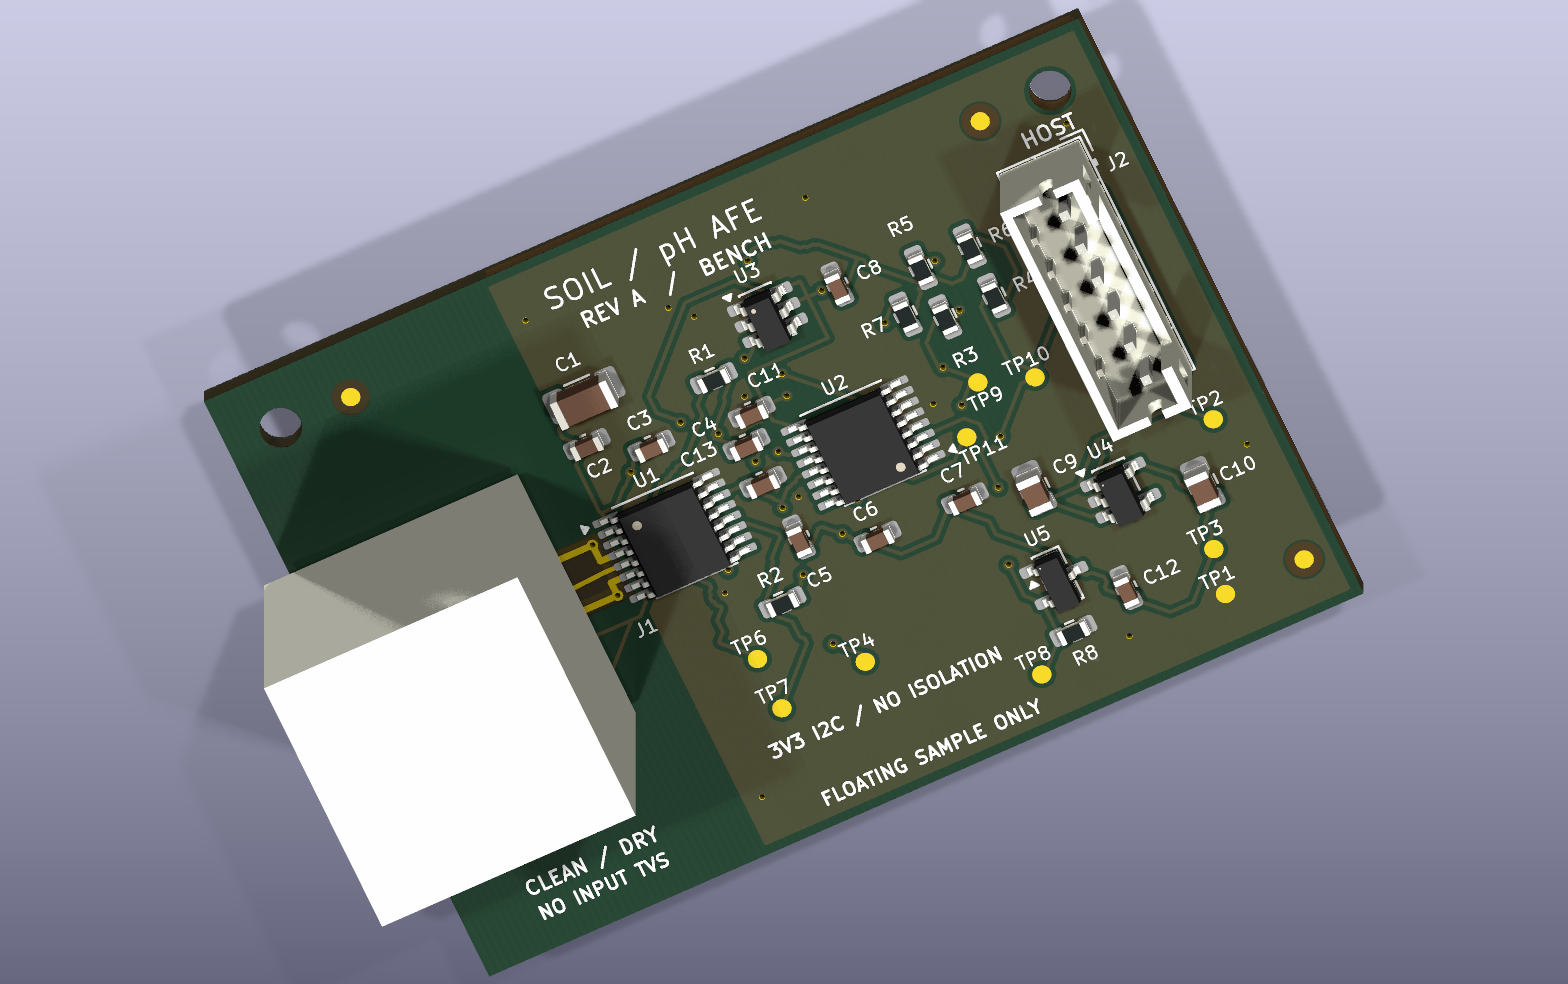
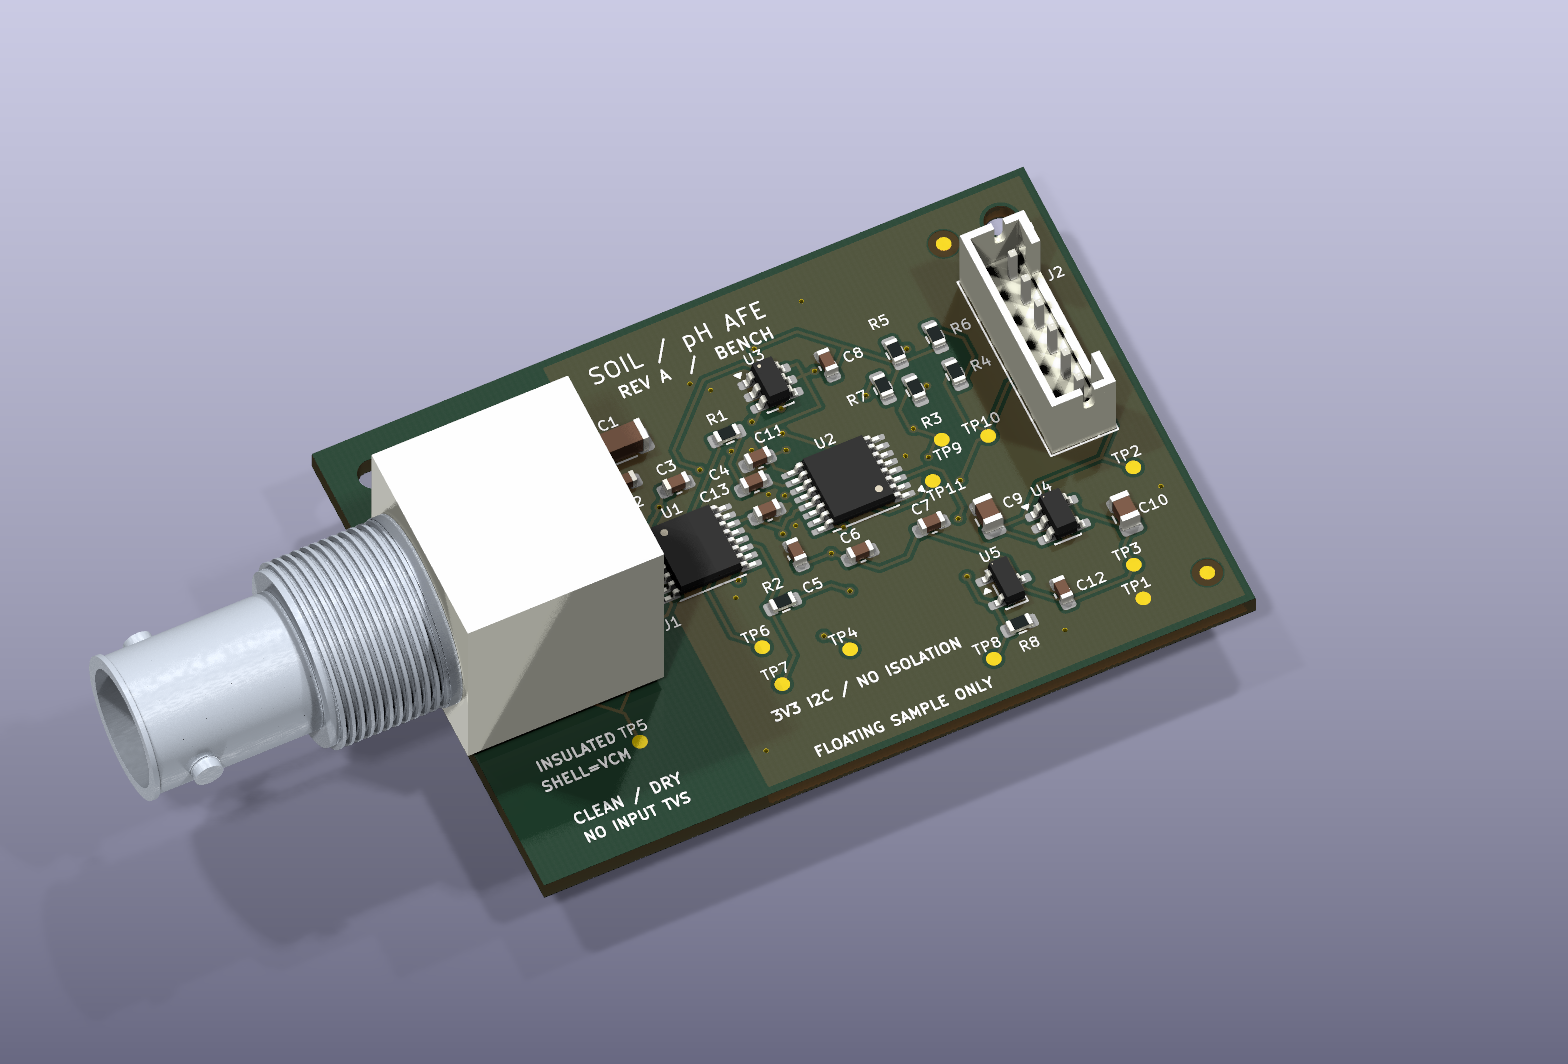
Refresh pH module renders and document routing cleanup

diff --git a/_projects/guarded-ph-acquisition-module.md b/_projects/guarded-ph-acquisition-module.md
@@ -8,7 +8,7 @@ excerpt: "A 50 × 35 mm guarded pH analog front end with a 16-bit ADC, precision
 
 A compact pH acquisition daughterboard designed around the **LMP91200**, **ADS112C04** and **REF3220**, with an external ESP32-S3 handling data logging and calibration. The project explores the practical requirements of measuring a high-impedance electrode: driven guards, clean surfaces, controlled reference startup and a traceable validation plan.
 
-**Status:** Rev A engineering prototype. Schematic, routed PCB, manufacturing outputs and firmware source are complete. The board has **not been fabricated, assembled or bench tested**. Images are CAD renders, not hardware photographs; the BNC body is an approximate clearance envelope.
+**Status:** Rev A engineering prototype. Schematic, routed PCB, manufacturing outputs and firmware source are complete. The board has **not been fabricated, assembled or bench tested**. Images are CAD renders, not hardware photographs; the BNC connector visualization follows its manufacturer drawing for major dimensions, with illustrative thread/socket details.
 
 [View project repository](https://github.com/xmyoot/guarded-ph-acquisition-module) · [Schematic PDF](https://github.com/xmyoot/guarded-ph-acquisition-module/blob/main/output/review/schematic.pdf) · [Engineering review](https://github.com/xmyoot/guarded-ph-acquisition-module/blob/main/docs/implementation/design_review.md)
 
@@ -28,11 +28,11 @@ The starting brief described an analog-chain replacement in a larger soil instru
 
 ![Top copper and drill rendering from exported Gerbers](/assets/images/soil-ph-afe-copper.png)
 
-*Independent rendering of the exported top copper, silkscreen, outline and drills. This illustrates the guard region and deliberate ground exclusion around the electrode input.*
+*Independent rendering of the exported top copper, outline and drills. This illustrates the guard region and deliberate ground exclusion around the electrode input.*
 
 KiCad 10.0.7 reports **zero enabled ERC errors/warnings, zero DRC violations, zero unconnected pads and zero schematic-parity errors**. An additional audit checks every native pad net, preserves the guarded input geometry, excludes foreign filled copper beneath the input and confirms that no vias overlap component paste apertures.
 
-Review caught two via/paste overlaps, which were corrected before the final exports. It also exposed stale analyzer-cache results; the final review uses fresh analysis files and native KiCad checks. Generic EMC warnings, intentional guard-mask openings and connector overhang are documented rather than treated as unexplained failures or silently dismissed.
+Review caught two via/paste overlaps, which were corrected before the final exports. A subsequent visual review removed staircase micro-jogs: routed segments fell from **352 to 257**, shortening copper by **8.203 mm** while preserving the locked guarded input and reference routing. The BNC preview was rebuilt with visible threaded barrel, bayonet lugs and socket geometry. The tooling review also exposed stale analyzer-cache results; the final review uses fresh analysis files and native KiCad checks. Generic EMC warnings, intentional guard-mask openings and connector overhang are documented rather than treated as unexplained failures or silently dismissed.
 
 ## Deliverables and next tests
 
